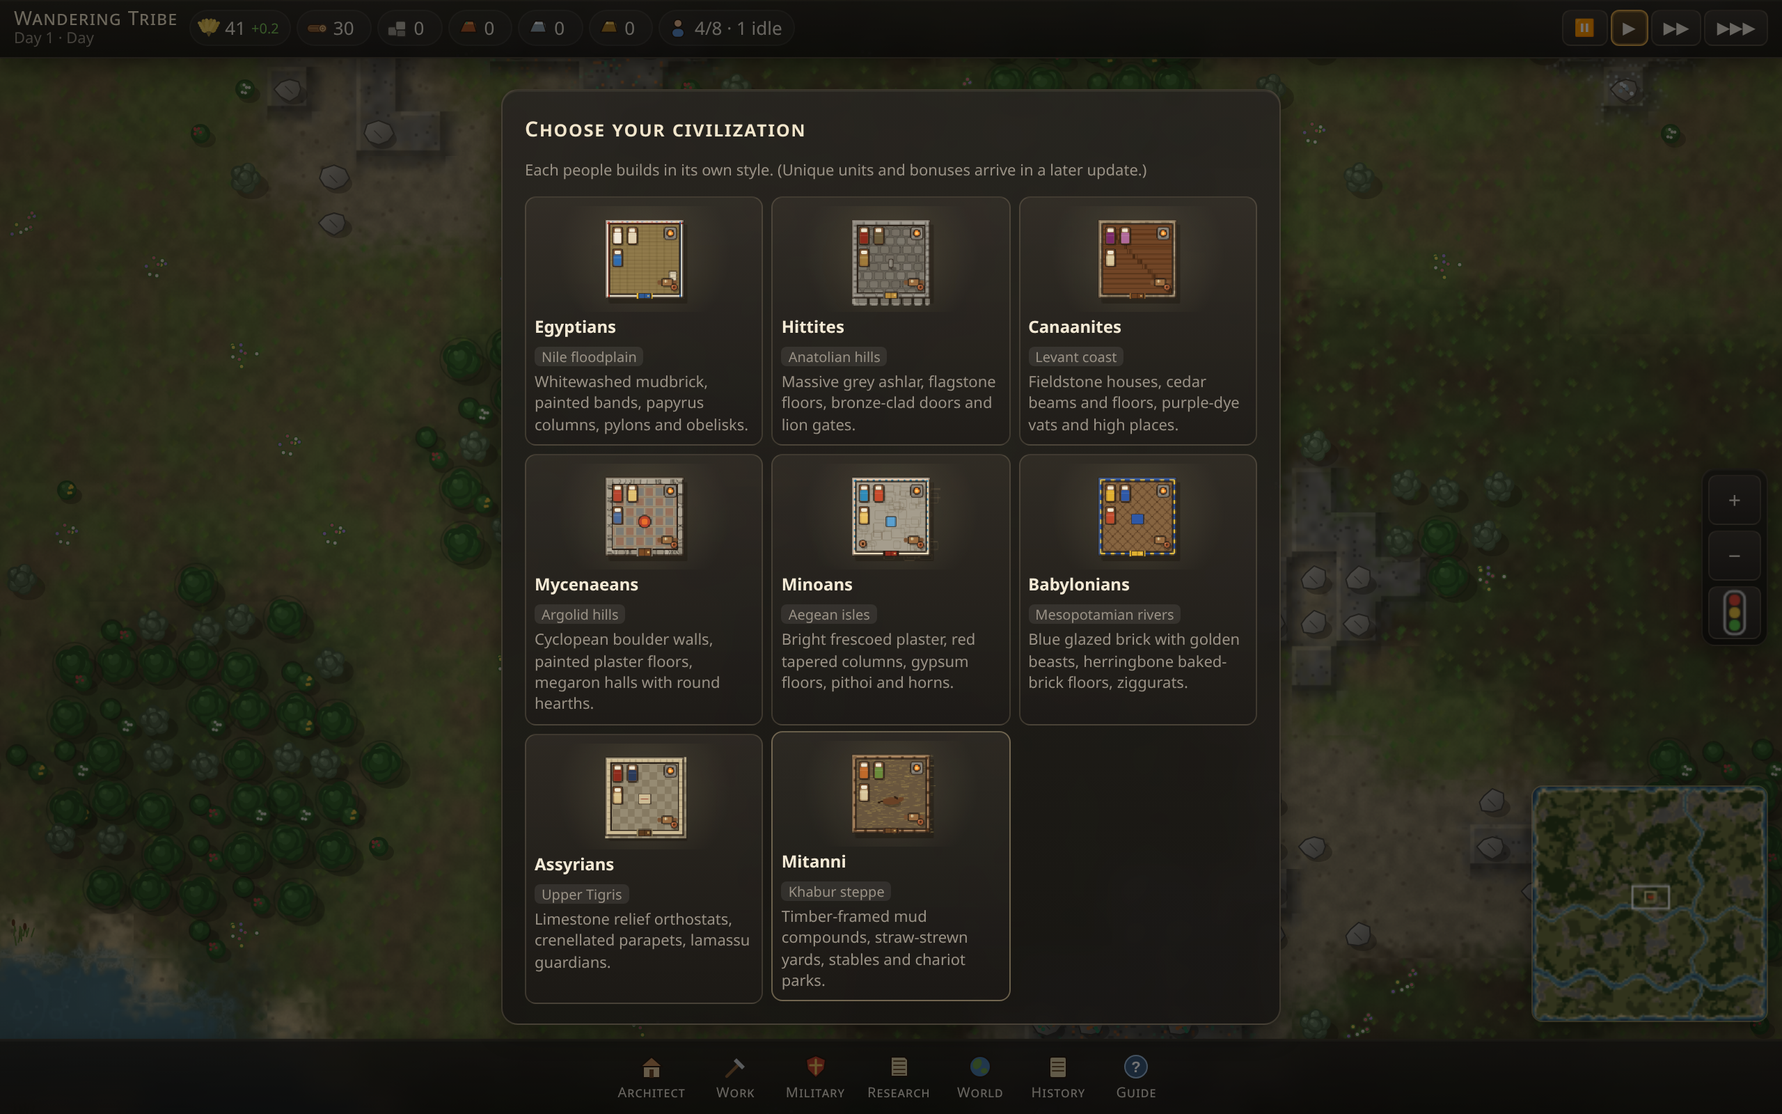
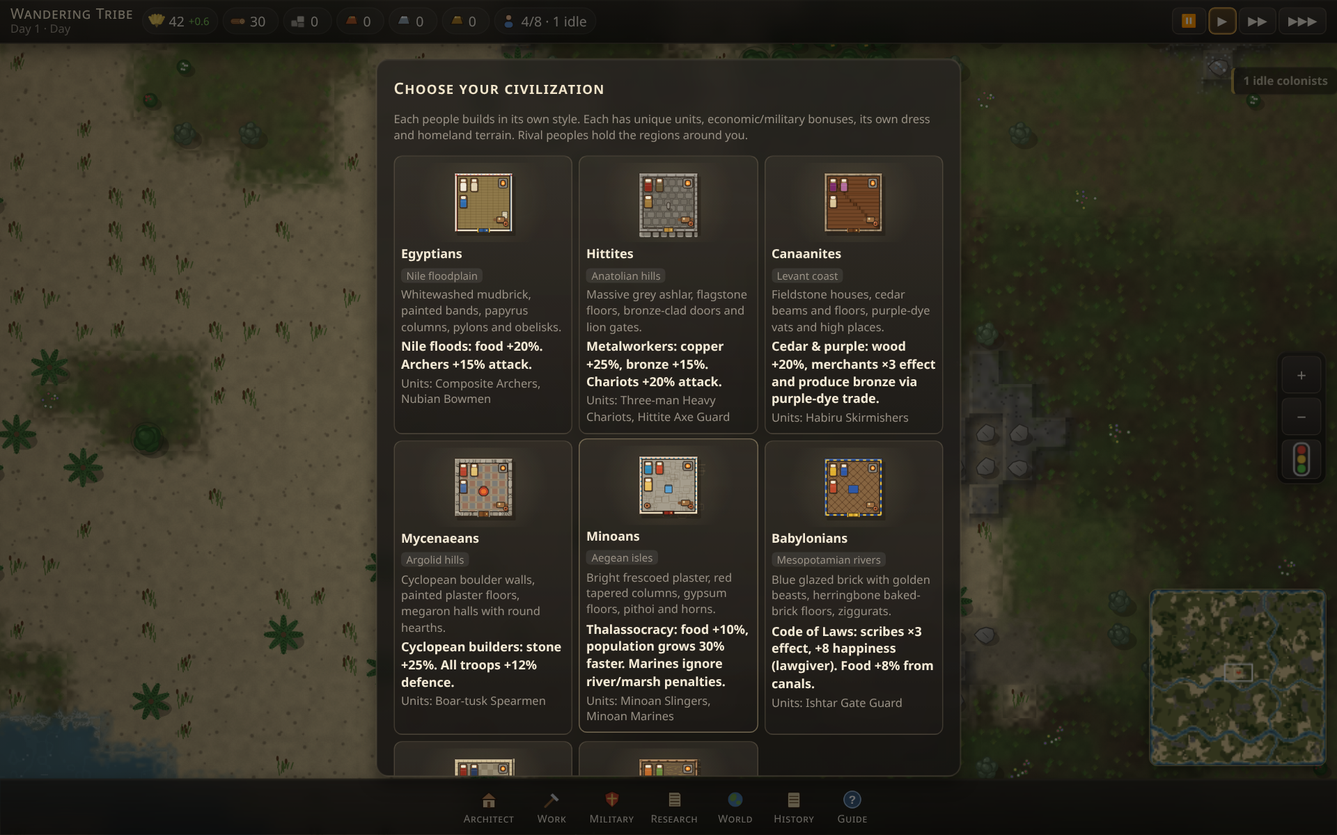
Civ gameplay: unique units, bonuses, dress/hair, biomes, AI-owned regions

diff --git a/index.html b/index.html
@@ -337,16 +337,16 @@ const can=c=>Object.keys(c).every(r=>S.res[r]>=c[r]);
 function pay(c){if(!can(c))return false;for(const r in c)S.res[r]-=c[r];return true}
 const cstr=c=>Object.keys(c).map(r=>c[r]+' '+r).join(', ');
 function tick(){if(S.autoWork&&S.t%3===0)autoAssign();
- const EM=evMods();const mult=(S.tech.writing?1.25:1)*(1+0.05*(S.jobs.scribe||0))*(1+0.03*(S.jobs.merchant||0))*EM.prod;
+ const EM=evMods();const mult=(S.tech.writing?1.25:1)*(1+0.05*(S.jobs.scribe||0)*(cX().scribe||1))*(1+0.03*(S.jobs.merchant||0)*(cX().merch||1))*EM.prod;
  const p={food:0,wood:0,stone:0,copper:0,tin:0,bronze:0};
  for(const j in S.jobs){const J=JOBS[j];if(!J[1]||j==='smith')continue;let v=S.jobs[j]*J[2]*mult;if(J[1]==='food'&&j==='farmer'){if(S.tech.irrigation)v*=1.5;v*=EM.farm}p[J[1]]+=v}
- for(const r in S.bonus)p[r]*=1+S.bonus[r];
+ for(const r in S.bonus)p[r]*=1+S.bonus[r];{const X=cX(),E=X.eco||{};for(const r in E)if(p[r]>0)p[r]*=1+E[r];if(X.purple)p.bronze+=(S.jobs.merchant||0)*X.purple}
  const sm=S.jobs.smith||0;if(sm){let n=Math.min(sm*0.3,S.res.copper/1,S.res.tin/0.5);S.res.copper-=n;S.res.tin-=n*.5;p.bronze+=n*mult*(1+(S.bonus.bronze||0))}
  let up=S.pop*0.4;for(const c of S.companies)up+=c.men*UNIT[c.type].up;p.food-=up*EM.up;
  const C=cap();for(const r of RES)S.res[r]=Math.max(0,Math.min(C,S.res[r]+p[r]));
  S.rate=p;
  if(S.res.food<=0&&p.food<0){if(armyN()>0&&Math.random()<.1){const c=S.companies.find(c=>c.men>0);c.men--;S.companies=S.companies.filter(c=>c.men>0);log('Starving! A soldier of '+c.name+' deserted.')}else if(S.pop>1&&Math.random()<.05){S.pop--;fixJobs();log('Starving! A villager left.')}}
- else if(S.pop<housing()&&S.res.food>10&&EM.grow>0){S.growT+=EM.grow;if(S.growT>=Math.max(3,8-S.tier*2)){S.growT=0;S.pop++;log('A new villager arrived!')}}
+ else if(S.pop<housing()&&S.res.food>10&&EM.grow>0){S.growT+=EM.grow*(cX().grow||1);if(S.growT>=Math.max(3,8-S.tier*2)){S.growT=0;S.pop++;log('A new villager arrived!')}}
  evTick();evHUD();if(S.t%5===0)spawnPops(p);
  S.t++;if(S.t%10===0)save();renderTop();if(cur==='jobs'||cur==='army'){if(S.t%2===0)renderView()}
 }
@@ -381,12 +381,12 @@ function renderView(){const V=$('view');V.innerHTML='';if(cur==='build'){renderA
     btn('✕',()=>{if(confirm('Disband '+c.name+'?'))S.companies=S.companies.filter(x=>x!==c)}))});
   if(!S.companies.length)V.innerHTML+='<div class="small">No companies yet.</div>';
   V.appendChild(Object.assign(document.createElement('b'),{textContent:'Recruit'}));
-  for(const t in UNIT){const U=UNIT[t],lock=unitLock(t);row(V,U.n,lock||('A'+U.atk+' D'+U.def+' HP'+U.hp+' Spd'+U.spd+(U.rng?' ranged':'')+' Arm'+U.arm+(U.ap?' AP'+U.ap:'')+(U.shock?' shock':'')+' · '+cstr(U.cost)+' · upkeep '+U.up),btn('Recruit',()=>recruit(t),lock||!can(U.cost)||armyN()>=armyCap()))}}
+  for(const t in UNIT){const U=UNIT[t],lock=unitLock(t);if(U.civ&&U.civ!==(S.civ||'egypt'))continue;row(V,U.n,lock||('A'+U.atk+' D'+U.def+' HP'+U.hp+' Spd'+U.spd+(U.rng?' ranged':'')+' Arm'+U.arm+(U.ap?' AP'+U.ap:'')+(U.shock?' shock':'')+' · '+cstr(U.cost)+' · upkeep '+U.up),btn('Recruit',()=>recruit(t),lock||!can(U.cost)||armyN()>=armyCap()))}}
  if(cur==='tech'){V.innerHTML='<h3>Tech Tree</h3>';for(const k in TECH){const T=TECH[k];const lock=T.req&&!S.tech[T.req];
   row(V,(S.tech[k]?'✔ ':'')+T.n,T.d+(S.tech[k]?'':' · '+cstr(T.cost))+(lock?' · needs '+TECH[T.req].n:''),btn(S.tech[k]?'Done':'Learn',()=>{if(pay(T.cost)){S.tech[k]=1;log('Learned '+T.n+'!')}},S.tech[k]||lock||!can(T.cost)))}}
  if(cur==='map'){V.innerHTML='<h3>Region Map</h3><div class="small">Tap a flag to scout or attack. Our army: '+armyN()+' men</div>';const c=document.createElement('canvas');c.width=256;c.height=150;V.appendChild(c);drawMap(c);
   c.onclick=e=>{const r=c.getBoundingClientRect();const x=(e.clientX-r.left)*256/r.width,y=(e.clientY-r.top)*150/r.height;let best=-1,bd=400;REG.forEach((g,i)=>{const d=(g.x-x)**2+(g.y-y)**2;if(d<bd){bd=d;best=i}});if(best>=0)regionModal(best)};
-  REG.forEach((g,i)=>row(V,(S.won.includes(i)?'🚩 ':'')+g.n,TERR[g.terr].n+' · '+(S.scouted[i]?enemyMen(i)+' men, '+FORM[g.form].n:'~'+enemyMen(i)+' men?')+' · '+g.d,btn(S.won.includes(i)?'Ours':'Attack',()=>regionModal(i),S.won.includes(i))))}
+  REG.forEach((g,i)=>row(V,(S.won.includes(i)?'🚩 ':'')+g.n+(S.won.includes(i)?'':' · '+CIV[ownersFor(S.civ||'egypt')[i]].n),TERR[g.terr].n+' · '+(S.scouted[i]?enemyMen(i)+' men, '+FORM[g.form].n:'~'+enemyMen(i)+' men?')+' · '+g.d,btn(S.won.includes(i)?'Ours':'Attack',()=>regionModal(i),S.won.includes(i))))}
  if(cur==='help'){V.innerHTML=`<h3>How to Play</h3>
 1. Resources tick every second. Assign idle villagers in <b>Jobs</b>.<br>2. Build Farms/Lumber/Quarries for more jobs, Houses for more people (they need spare food to move in).<br>3. Tap a building in the village to upgrade it (+jobs/capacity).<br>4. Build a <b>Barracks</b>, train Spearmen, plus a couple of Slingers, then attack <b>Reedy Marsh</b> on the Map (6 tribesmen).<br>5. Conquered lands give jobs, tin, bonuses or free tech. Grow Village → Town → City to unlock mines and the smelter.<br>6. Bronze = copper + tin at a Smelter. Learn Chariots for the strongest unit.<br>7. Watch food: villagers and soldiers eat. Starvation causes desertion.<br><b>Events</b>: plague, drought, fire, raiders, immigrants, festivals, caravans and quakes happen at random; wells, a Temple, Irrigation, Sanitation and Granaries soften them. Drag to pan, pinch/wheel or +/- to zoom; tap a villager to see their job.<br><b>Battles</b>: tap a land, Scout it (reveals enemy units, formation), pick a Formation and put each company in Front/Back/Flank/Reserve. Battles run in rounds: missiles, approach, clash, flanking, morale. Armour cuts damage (missiles worst vs armour; axes/maces pierce). Terrain matters: no chariots in forest/marsh, hills favour defenders, walls need a Battering Ram. Survivors gain XP and rank. Take the Bronze Citadel to win!<br>Progress autosaves.`}
 }
@@ -432,10 +432,10 @@ function vnoise(x,y,sc,seed){const X=Math.floor(x/sc),Y=Math.floor(y/sc),fx=x/sc
 const ter=(x,y)=>x<0||y<0||x>=MW||y>=MH?T_WATER:TER[y*MW+x];
 function genWorld(seed){TER=new Uint8Array(MW*MH);const I=(x,y)=>y*MW+x,inb=(x,y)=>x>=0&&y>=0&&x<MW&&y<MH;
  for(let y=0;y<MH;y++)for(let x=0;x<MW;x++){const h=vnoise(x,y,28,seed)*.45+vnoise(x,y,9,seed+11)*.35+vnoise(x,y,4,seed+1)*.2,f=vnoise(x,y,20,seed+2)*.45+vnoise(x,y,7,seed+12)*.35+vnoise(x,y,3,seed+3)*.2;let t=T_GRASS;
-  if(h>.64)t=T_HILL;else if(f>.6)t=T_FOREST;if(t===T_HILL&&(h>.74||hsh(x,y,seed+4)<.12))t=T_ROCK;if((t===T_HILL||t===T_ROCK)&&vnoise(x,y,5,seed+5)>.76)t=T_CU;if((t===T_HILL||t===T_ROCK)&&vnoise(x,y,5,seed+6)>.83)t=T_SN;TER[I(x,y)]=t}
+  const B=cX().biome;if(h>B.h)t=T_HILL;else if(f>B.f)t=T_FOREST;else if(B.arid&&f<B.arid&&vnoise(x,y,16,seed+9)<.55)t=T_SAND;if(t===T_HILL&&(h>.74||hsh(x,y,seed+4)<.12))t=T_ROCK;if((t===T_HILL||t===T_ROCK)&&vnoise(x,y,5,seed+5)>.76)t=T_CU;if((t===T_HILL||t===T_ROCK)&&vnoise(x,y,5,seed+6)>.83)t=T_SN;TER[I(x,y)]=t}
  const river=(horiz,base,lo,hi,w,sd)=>{let r=base;const N=horiz?MW:MH;for(let a=0;a<N;a++){r+=Math.round(Math.sin(a/9+sd)*.8+(hsh(a,sd,2)-.5)*1.3);r=Math.max(lo,Math.min(hi,r));const ww=w+(vnoise(a,0,14,sd)>.6?1:0);for(let k=-ww;k<=ww;k++){const x=horiz?a:r+k,y=horiz?r+k:a;if(inb(x,y))TER[I(x,y)]=T_WATER}for(const k of[-ww-1,ww+1]){const x=horiz?a:r+k,y=horiz?r+k:a;if(inb(x,y)&&TER[I(x,y)]!==T_WATER&&hsh(a,k,sd)<.8)TER[I(x,y)]=T_SAND}}};
  river(true,START.y+14,START.y+10,START.y+26,1,seed);river(false,START.x+46,START.x+38,START.x+70,1,seed+3);river(true,START.y+80,START.y+60,MH-10,2,seed+5);
- for(let n=0;n<10;n++){const cx=(hsh(n,seed,31)*(MW-20)|0)+10,cy=(hsh(n,seed,32)*(MH-20)|0)+10,r=3+hsh(n,seed,33)*7;if(Math.abs(cx-START.x)<22&&Math.abs(cy-START.y)<18)continue;for(let y=cy-r-2;y<=cy+r+2;y++)for(let x=cx-r-2;x<=cx+r+2;x++){if(!inb(x,y))continue;const d=Math.hypot(x-cx,(y-cy)*1.2)+(vnoise(x,y,3,n)-.5)*3;if(d<r)TER[I(x,y)]=T_WATER;else if(d<r+1.4&&TER[I(x,y)]!==T_WATER)TER[I(x,y)]=T_SAND}}
+ for(let n=0;n<(cX().biome.wet?24:10);n++){const cx=(hsh(n,seed,31)*(MW-20)|0)+10,cy=(hsh(n,seed,32)*(MH-20)|0)+10,r=3+hsh(n,seed,33)*7;if(Math.abs(cx-START.x)<22&&Math.abs(cy-START.y)<18)continue;for(let y=cy-r-2;y<=cy+r+2;y++)for(let x=cx-r-2;x<=cx+r+2;x++){if(!inb(x,y))continue;const d=Math.hypot(x-cx,(y-cy)*1.2)+(vnoise(x,y,3,n)-.5)*3;if(d<r)TER[I(x,y)]=T_WATER;else if(d<r+1.4&&TER[I(x,y)]!==T_WATER)TER[I(x,y)]=T_SAND}}
  for(let y=0;y<MH;y++)for(let x=0;x<MW;x++){const e=Math.min(x,y,MW-1-x,MH-1-y)+(vnoise(x,y,6,seed+40)-.5)*6;if(e<3)TER[I(x,y)]=T_WATER;else if(e<4.5&&TER[I(x,y)]!==T_WATER)TER[I(x,y)]=T_SAND}
  for(let y=START.y-7;y<=START.y+7;y++)for(let x=START.x-8;x<=START.x+8;x++){const t=TER[I(x,y)];if(t!==T_WATER&&t!==T_SAND)TER[I(x,y)]=T_GRASS}
  const blob=(cx,cy,r,t)=>{for(let y=cy-r;y<=cy+r;y++)for(let x=cx-r;x<=cx+r;x++)if(inb(x,y)&&(x-cx)**2+(y-cy)**2<=r*r+.5&&TER[I(x,y)]!==T_WATER&&TER[I(x,y)]!==T_SAND)TER[I(x,y)]=(t===T_FOREST||hsh(x,y,t)<.75)?t:T_HILL};
@@ -495,7 +495,7 @@ function syncRoster(){const pop=S.pop,sig=JSON.stringify([S.jobs,pop,bgSig,armyN
  const idle=Math.round(Math.max(0,pop-employed())*sc);for(let k=0;k<idle;k++)want.push('idle#'+k);for(let k=0;k<Math.min(12,armyN());k++)want.push('soldier#'+k);for(let k=0;k<Math.min(6,Math.floor(pop/6));k++)want.push('kid#'+k);
  const keep={};agents.forEach(a=>keep[a.key]=a);const h=hubT(),homes=blds('house').concat(blds('tent'));
  agents=want.map((key,n)=>{const a=keep[key];if(a&&a.sig===bgSig)return a;const role=key.split('#')[0],idx=+key.split('#')[1];const home=homes.length?doorOf(pick(homes).b):h;const wb=JOBB[role]?blds(JOBB[role]):[];
-  const o=Object.assign({},OUTFIT[role]||{t:TUN[n%TUN.length],t2:lighten(TUN[n%TUN.length],-.35),hat:'none'});o.hair=pick(['#3a2414','#24140c','#6a4226','#1a1010','#8a5a32']);if(role==='kid'){o.kid=1;o.t=TUN[(n+3)%TUN.length];o.t2=lighten(o.t,-.3)}
+  const o=Object.assign({},OUTFIT[role]||{t:TUN[n%TUN.length],t2:lighten(TUN[n%TUN.length],-.35),hat:'none'});o.hair=pick(['#3a2414','#24140c','#6a4226','#1a1010','#8a5a32']);if(role==='kid'){o.kid=1;o.t=TUN[(n+3)%TUN.length];o.t2=lighten(o.t,-.3)}civDress(o,role,n);
   return{key,role,idx,sig:bgSig,x:home.x,y:home.y,home,work:wb.length?pick(wb):null,route:[],state:'start',t:Math.random()*2,o,dir:0,ft:0,sick:false}});
  critters=[];const fs=blds('farm'),fc=Math.min(12,fs.length*3),gc=(S.extraJobs||{}).herder?Math.min(6,2+S.tier*2):0;
  for(let k=0;k<fc+gc;k++){const f=fs.length?fs[k%fs.length]:{gx:S.center.x,gy:S.center.y,s:1};const d=doorOf(f.b||{t:'tent',x:f.gx,y:f.gy});critters.push({k:k>=fc?'goat':'chicken',x:d.x+Math.random()-.5,y:d.y+Math.random()*.5,tx:0,ty:0,t:0,dir:1,hx:d.x,hy:d.y})}
@@ -693,8 +693,8 @@ function bspr(t,l,v){l=Math.min(l||1,5);const key='B'+t+l+(v||'')+(S&&S.tier>=3?
  if(v==='burn'){g.fillStyle='rgba(30,20,10,.35)';g.fillRect(0,0,W,W)}
  return SPR[key]={c,m}}
 // ---------- pawns ----------
-function pawnSpr(o,dir,sc){const k='P'+[o.t,o.t2,o.hat,o.hair,o.kid,o.sick,o.shield,o.apron,o.robe,o.hc,dir,sc].join();if(PSPR[k])return PSPR[k];const[c,g0]=mk(24*sc,32*sc);const g=g0;g.imageSmoothingEnabled=true;g.scale(sc,sc);g.lineJoin='round';
- if(o.kid){g.translate(12,30);g.scale(.76,.76);g.translate(-12,-30)}const sk=o.sick?'#a8b880':'#e8b890',hair=o.hair||'#3a2414',side=dir===0||dir===2,fl=dir===2?-1:1;
+function pawnSpr(o,dir,sc){const k='P'+[o.sk,o.hs,o.t,o.t2,o.hat,o.hair,o.kid,o.sick,o.shield,o.apron,o.robe,o.hc,dir,sc].join();if(PSPR[k])return PSPR[k];const[c,g0]=mk(24*sc,32*sc);const g=g0;g.imageSmoothingEnabled=true;g.scale(sc,sc);g.lineJoin='round';
+ if(o.kid){g.translate(12,30);g.scale(.76,.76);g.translate(-12,-30)}const sk=o.sick?'#a8b880':(o.sk||'#e8b890'),hair=o.hair||'#3a2414',side=dir===0||dir===2,fl=dir===2?-1:1;
  // body
  const bh=o.robe?16:13,by=15;rr(g,5,by,14,bh,6,o.t,OUTL,1.1);rr(g,6,by+bh*.55,12,bh*.42,5,o.t2);if(o.apron&&dir===1)rr(g,9,by+3,6,bh-4,2,'#d8c6a0');
  if(o.shield&&side){circ(g,12+fl*-5,by+7,4.4,o.hc||'#8a6038',OUTL,.9);circ(g,12+fl*-5,by+7,1.4,'#d8a040')}
@@ -704,7 +704,14 @@ function pawnSpr(o,dir,sc){const k='P'+[o.t,o.t2,o.hat,o.hair,o.kid,o.sick,o.shi
  g.save();g.beginPath();g.arc(hx,hy,6.6,0,6.29);g.clip();g.fillStyle=hair;
  if(o.hat!=='bald'){if(dir===3)g.fillRect(0,0,24,20);else if(dir===1){g.beginPath();g.ellipse(hx,hy-4.4,7.4,4.6,0,0,6.29);g.fill()}else{g.beginPath();g.ellipse(hx-fl*3.4,hy-2.6,6,6,0,0,6.29);g.fill()}}
  g.restore();if(o.hat!=='bald')circ(g,hx,hy,6.6,null,OUTL,1.1);
- const hat=o.hat||'none';
+ const hs=o.hs;if(hs==='long'||hs==='curls'){if(dir===3)rr(g,hx-6.5,hy,13,8,4,hair);else{ln(g,hx-6,hy-1,hx-6.5,hy+7,hair,2.6);if(dir!==0)ln(g,hx+6,hy-1,hx+6.5,hy+7,hair,2.6);}if(hs==='curls')for(let q=0;q<5;q++)circ(g,hx-6+q*3,hy-6+Math.abs(q-2),1.8,hair)}
+ if(hs==='braid'&&dir!==1)ln(g,hx-(side?fl*5:0),hy+2,hx-(side?fl*6:0),hy+11,hair,2.2);
+ if(hs==='beard'&&dir!==3){g.beginPath();g.moveTo(hx-4.5+(side?fl*1.5:0),hy+3);g.lineTo(hx+4.5+(side?fl*1.5:0),hy+3);g.lineTo(hx+(side?fl*2:0),hy+9);g.closePath();g.fillStyle=hair;g.fill();for(let q=0;q<3;q++)ln(g,hx-3+q*3,hy+4,hx-2+q*2,hy+8,'rgba(0,0,0,.25)',.5)}
+ const hat=o.hat==='helm'?'helmet':(o.hat||'none');
+ if(hat==='nemes'){g.beginPath();g.arc(hx,hy-.4,7.2,3.1,6.33);g.lineTo(hx+7.6,hy+7);g.lineTo(hx+4.6,hy+7);g.lineTo(hx+4.6,hy);g.lineTo(hx-4.6,hy);g.lineTo(hx-4.6,hy+7);g.lineTo(hx-7.6,hy+7);g.closePath();g.fillStyle='#f0e4b0';g.fill();g.strokeStyle=OUTL;g.lineWidth=.8;g.stroke();for(let q=-2;q<=2;q++)ln(g,hx+q*2.6,hy-6.5,hx+q*3.4,hy,o.hc||'#2e6db0',.9)}
+ else if(hat==='tall'){g.beginPath();g.moveTo(hx-6.5,hy-2.5);g.lineTo(hx-1,hy-15);g.lineTo(hx+1.5,hy-15);g.lineTo(hx+6.5,hy-2.5);g.closePath();g.fillStyle=o.hc||'#d8c08a';g.fill();g.strokeStyle=OUTL;g.lineWidth=.8;g.stroke();ln(g,hx-5.6,hy-5,hx+5.6,hy-5,'#8e2a1c',1)}
+ else if(hat==='boar'){g.beginPath();g.moveTo(hx-7,hy-1);g.quadraticCurveTo(hx,hy-17,hx+7,hy-1);g.closePath();g.fillStyle='#f0e8d0';g.fill();g.strokeStyle=OUTL;g.lineWidth=.8;g.stroke();for(let q=0;q<3;q++)ln(g,hx-6+q*1.2,hy-3-q*3,hx+6-q*1.2,hy-3-q*3,'#8a7a5a',.8);ln(g,hx,hy-12,hx,hy-15,'#8a5a32',1.4)}
+ else if(hat==='fez'){rr(g,hx-5.5,hy-11,11,7,1.5,o.hc||'#e0b030',OUTL,.8);ln(g,hx-5.5,hy-6,hx+5.5,hy-6,'rgba(0,0,0,.25)',.8)}
  if(hat==='straw'){ell(g,hx,hy-4,9.5,3.6,'#e2c464');ell(g,hx,hy-5.4,5,2.6,'#cfae4c');ln(g,hx-5,hy-4.2,hx+5,hy-4.2,'#a8822c',.7)}
  else if(hat==='cap'||hat==='helmet'){g.beginPath();g.arc(hx,hy-.6,6.9,3.3,6.12);g.closePath();g.fillStyle=hat==='helmet'?'#c8a040':(o.hc||'#8a6038');g.fill();g.strokeStyle=OUTL;g.lineWidth=.9;g.stroke();if(hat==='helmet')ln(g,hx,hy-7.5,hx,hy-10,'#c04a2c',1.6)}
  else if(hat==='hood'){g.beginPath();g.arc(hx,hy,7.6,3.0,6.4);g.lineWidth=2.6;g.strokeStyle=o.t2;g.stroke()}
@@ -1043,9 +1050,53 @@ function civBuilding(g,t,l,W,m){const A=civA(),id=(S&&S.civ)||'egypt',acc=A.acc;
  return false}
 const CLX={pithos:1,horns:1,stele:1,obelisk:1,palmpot:1,purple:1,horse:1};
 function civProp(g,k,vr){const x=24,y=24;if(k==='pithos'){pithos(g,x-4,y,4);pithos(g,x+5,y+2,3.4)}else if(k==='horns')horns(g,x,y);else if(k==='stele'){ell(g,x+3,y+3,4,2,SH);rr(g,x-3,y-6,6,10,2,'#9a948a',OUTL,.7);for(let i=0;i<3;i++)ln(g,x-2,y-4+i*2.4,x+2,y-4+i*2.4,'#6a645a',.5)}else if(k==='obelisk')obelisk(g,x,y);else if(k==='palmpot'){circ(g,x,y+2,3.6,'#b8643a',OUTL,.6);g.drawImage(propSpr('palm',vr).c,x-10,y-12,20,20)}else if(k==='purple'){for(let i=0;i<3;i++){circ(g,x-6+i*6,y,2.8,'#6a2a6a',OUTL,.6);circ(g,x-6+i*6,y,1.4,'#b04aa8')}}else if(k==='horse')horse(g,x,y,vr%2?1:-1,['#6a4226','#8a5a34','#3a2a1a'][vr%3])}
-function pickCiv(after){const M=$('modal'),B=$('mbody');B.innerHTML='<h3>Choose your civilization</h3><p class="muted">Each people builds in its own style. (Unique units and bonuses arrive in a later update.)</p>';const gr=document.createElement('div');gr.className='grid civg';
- for(const id in CIV){const C=CIV[id],el=document.createElement('div');el.className='card';const[c,g]=mk(112,112);g.imageSmoothingEnabled=true;const old=S.civ;S.civ=id;const sp=bspr('house',2);g.drawImage(sp.c,4,4,104,104);S.civ=old;c.className='th';el.appendChild(c);el.insertAdjacentHTML('beforeend','<div class="cm"><b>'+C.n+'</b><span class="badge">'+C.land+'</span><div class="sub">'+C.blurb+'</div></div>');
-  el.onclick=()=>{S.civ=id;for(const k in SPR)if(k[0]==='B')delete SPR[k];chunkSig++;save();M.style.display='none';log('You lead the '+C.n+'.');renderView();after&&after()};gr.appendChild(el)}B.appendChild(gr);M.style.display='flex'}
+function pickCiv(after){const M=$('modal'),B=$('mbody');B.innerHTML='<h3>Choose your civilization</h3><p class="muted">Each people builds in its own style. Each has unique units, economic/military bonuses, its own dress and homeland terrain. Rival peoples hold the regions around you.</p>';const gr=document.createElement('div');gr.className='grid civg';
+ for(const id in CIV){const C=CIV[id],el=document.createElement('div');el.className='card';const[c,g]=mk(112,112);g.imageSmoothingEnabled=true;const old=S.civ;S.civ=id;const sp=bspr('house',2);g.drawImage(sp.c,4,4,104,104);S.civ=old;c.className='th';el.appendChild(c);el.insertAdjacentHTML('beforeend','<div class="cm"><b>'+C.n+'</b><span class="badge">'+C.land+'</span><div class="sub">'+C.blurb+'</div><div class="sub"><b>'+CIVX[id].txt+'</b> Units: '+CIVX[id].units.map(u=>UNIT[u].n.replace(/ \(.*\)/,'')).join(', ')+'</div></div>');
+  el.onclick=()=>{S.civ=id;genWorld(S.seed);worldChanged();CH={};rosterSig='';for(const k in SPR)if(k[0]==='B')delete SPR[k];chunkSig++;save();M.style.display='none';log('You lead the '+C.n+'.');renderView();after&&after()};gr.appendChild(el)}B.appendChild(gr);M.style.display='flex'}
+
+// ================= CIV GAMEPLAY: units, bonuses, dress, biomes, AI regions =================
+Object.assign(UNIT,{
+ medjay:{n:'Composite Archers (Egypt)',civ:'egypt',atk:5.5,def:1.5,hp:9,spd:1.1,rng:1,arm:0,ap:1,up:.15,cost:{food:18,wood:24},c:'#e0c060'},
+ nubian:{n:'Nubian Bowmen (Egypt)',civ:'egypt',atk:4,def:1,hp:8,spd:1.3,rng:1,arm:0,ap:0,up:.1,cost:{food:12,wood:14},c:'#6a3a1e'},
+ hchar3:{n:'Three-man Heavy Chariots (Hittite)',civ:'hittite',atk:10,def:5.5,hp:30,spd:2.2,rng:0,arm:1,ap:1,chariot:1,shock:1,up:.45,cost:{food:60,wood:50,copper:20},tier:2,c:'#8e2a1c'},
+ meshwesh:{n:'Hittite Axe Guard (Hittite)',civ:'hittite',atk:6,def:4,hp:12,spd:1,rng:0,arm:1,ap:2,up:.2,cost:{food:22,copper:12},c:'#6a5a3a'},
+ maryannu:{n:'Maryannu Chariot Archers (Mitanni)',civ:'mitanni',atk:6,def:2.5,hp:20,spd:3.4,rng:1,arm:1,ap:1,chariot:1,up:.35,cost:{food:45,wood:40,copper:8},c:'#c06a2a'},
+ boar:{n:'Boar-tusk Spearmen (Mycenae)',civ:'myc',atk:4.5,def:7,hp:14,spd:.8,rng:0,arm:1,ap:0,up:.2,cost:{food:22,wood:10,copper:6},c:'#d8c8a0'},
+ msling:{n:'Minoan Slingers (Minoa)',civ:'minoan',atk:3.4,def:1.2,hp:8,spd:1.3,rng:1,arm:0,ap:1,up:.08,cost:{food:10,stone:8},c:'#2e8ab8'},
+ marine:{n:'Minoan Marines (Minoa)',civ:'minoan',atk:4.5,def:4,hp:11,spd:1.2,rng:0,arm:0,ap:1,amph:1,up:.15,cost:{food:18,wood:14},c:'#c84a2c'},
+ sapper:{n:'Assyrian Siege Engineers (Assyria)',civ:'assyria',atk:1.5,def:5,hp:26,spd:.8,rng:0,arm:2,ap:0,siege:1,up:.15,cost:{wood:40,stone:15,copper:5},c:'#8a7a54'},
+ lancer:{n:'Assyrian Lancers (Assyria)',civ:'assyria',atk:5,def:3,hp:12,spd:1,rng:0,arm:1,ap:1,up:.18,cost:{food:20,wood:8,copper:8},c:'#8e2a1c'},
+ gateguard:{n:'Ishtar Gate Guard (Babylon)',civ:'babylon',atk:4.5,def:6,hp:13,spd:.9,rng:0,arm:1,ap:0,morale:15,up:.2,cost:{food:24,stone:10,copper:6},c:'#2e58a6'},
+ habiru:{n:'Habiru Skirmishers (Canaan)',civ:'canaan',atk:3.4,def:2,hp:9,spd:1.4,rng:1,arm:0,ap:0,up:.08,cost:{food:12,wood:8},c:'#7a2a6a'}});
+const CIVX={
+ egypt:{units:['medjay','nubian'],eco:{food:.2},mil:{rng:.15},sw:{archer:'medjay',slinger:'nubian',compbow:'medjay'},txt:'Nile floods: food +20%. Archers +15% attack.',
+  dress:{sk:['#c8885a','#a86a40','#8a5030'],hair:['#140c08','#1a1010'],t:['#f4eedc','#ece2cc'],t2:'#d8ccb0',hat:'nemes',hc:'#2e6db0',hs:'short'},biome:{arid:.46,f:.7,h:.7}},
+ hittite:{units:['hchar3','meshwesh'],eco:{copper:.25,bronze:.15},mil:{chariot:.2},sw:{hchariot:'hchar3',axeman:'meshwesh',lchariot:'hchar3'},txt:'Metalworkers: copper +25%, bronze +15%. Chariots +20% attack.',
+  dress:{sk:['#e0a878','#d09468'],hair:['#24140c','#3a2414'],t:['#8e2a1c','#6a5a3a','#a07a3a'],t2:'#4a3a2a',hat:'tall',hc:'#d8c08a',hs:'braid'},biome:{h:.58,f:.62}},
+ canaan:{units:['habiru'],eco:{wood:.2},merch:3,purple:.06,txt:'Cedar & purple: wood +20%, merchants ×3 effect and produce bronze via purple-dye trade.',sw:{slinger:'habiru',archer:'habiru'},
+  dress:{sk:['#d89a6a','#c08458'],hair:['#1a1010','#3a2414'],t:['#7a2a6a','#b06a9a','#d8c69a'],t2:'#5a2a5a',hat:'turban',hc:'#e8dcc0',hs:'beard'},biome:{f:.52,h:.66}},
+ myc:{units:['boar'],eco:{stone:.25},mil:{def:.12},sw:{spear:'boar',hoplite:'boar'},txt:'Cyclopean builders: stone +25%. All troops +12% defence.',
+  dress:{sk:['#e8b890','#d8a070'],hair:['#3a2414','#6a4226','#24140c'],t:['#b8442e','#e0c070','#4a6a9a'],t2:'#6a3a1e',hat:'boar',hc:'#f0e8d0',hs:'long'},biome:{h:.57,f:.66}},
+ minoan:{units:['msling','marine'],eco:{food:.1},grow:1.3,sw:{slinger:'msling',spear:'marine'},txt:'Thalassocracy: food +10%, population grows 30% faster. Marines ignore river/marsh penalties.',
+  dress:{sk:['#d8946a','#c88058'],hair:['#140c08','#24140c'],t:['#2e8ab8','#c84a2c','#e8c060'],t2:'#f0e8d8',hat:'none',hs:'curls'},biome:{f:.64,h:.68,wet:1}},
+ babylon:{units:['gateguard'],scribe:3,eco:{food:.08},happy:8,sw:{hoplite:'gateguard',guard:'gateguard'},txt:'Code of Laws: scribes ×3 effect, +8 happiness (lawgiver). Food +8% from canals.',
+  dress:{sk:['#d09060','#b87a50'],hair:['#140c08','#1a1010'],t:['#2e58a6','#e0b030','#c04a2c'],t2:'#1a3670',hat:'fez',hc:'#e0b030',hs:'beard'},biome:{arid:.42,f:.74,h:.72}},
+ assyria:{units:['sapper','lancer'],eco:{stone:.15},mil:{atk:.12,siege:1.6},sw:{ram:'sapper',spear:'lancer',axeman:'lancer'},txt:'War machine: all troops +12% attack, siege ×1.6. Stone +15%.',
+  dress:{sk:['#d09468','#c08458'],hair:['#140c08','#24140c'],t:['#8e2a1c','#2a3a5a','#d8c08a'],t2:'#5a1a10',hat:'fez',hc:'#d8c08a',hs:'beard'},biome:{arid:.4,h:.62,f:.7}},
+ mitanni:{units:['maryannu'],eco:{food:.1},mil:{chariot:.25,spd:.25},sw:{lchariot:'maryannu',hchariot:'maryannu',archer:'maryannu'},txt:'Horse masters (Kikkuli): chariots +25% attack & speed. Herds: food +10%.',
+  dress:{sk:['#e0a878','#c89060'],hair:['#3a2414','#6a4226'],t:['#c06a2a','#6a8a3a','#d8c69a'],t2:'#6a3a1e',hat:'band',hc:'#c06a2a',hs:'long'},biome:{f:.74,h:.7}}};
+const cX=()=>CIVX[(S&&S.civ)||'egypt']||CIVX.egypt;
+const _unitLock=unitLock;unitLock=function(t){const U=UNIT[t];if(U.civ&&U.civ!==(S.civ||'egypt'))return'Only the '+CIV[U.civ].n;return _unitLock(t)};
+const _mkGroup=mkGroup;mkGroup=function(c,side){const g=_mkGroup(c,side);let civ=null;if(typeof c.id==='number')civ=cX();else if(c.civ)civ=CIVX[c.civ];
+ if(civ){const M=civ.mil||{},U=Object.assign({},g.U);let a=1+(M.atk||0);if(U.rng)a+=M.rng||0;if(U.chariot){a+=M.chariot||0;U.spd*=1+(M.spd||0)}if(U.siege)a*=M.siege||1;U.atk*=a;U.def*=1+(M.def||0);g.U=U}return g};
+function civDress(o,role,n){const D=cX().dress,h=(n*7+role.length*3)%97;o.sk=D.sk[h%D.sk.length];o.hair=D.hair[h%D.hair.length];o.hs=D.hs;
+ if(!OUTFIT[role]||role==='gatherer'||role==='scribe'||role==='merchant'||role==='kid'){o.t=D.t[h%D.t.length];o.t2=D.t2}
+ if(!o.hat||o.hat==='none'||role==='scribe'||role==='merchant'||role==='soldier'){if(role!=='kid')o.hat=role==='soldier'&&D.hat!=='boar'&&D.hat!=='tall'?'helm':D.hat;o.hc=D.hc}
+ if(role==='soldier'){o.t=CIV[S.civ||'egypt'].acc;o.t2=lighten(o.t,-.35)}o.civ=S.civ;return o}
+function ownersFor(me){const L=Object.keys(CIV).filter(k=>k!==me);return REG.map((r,i)=>L[i%L.length])}
+const _enemyOf=enemyOf;enemyOf=function(i){const ow=ownersFor(S.civ||'egypt')[i],X=CIVX[ow];return _enemyOf(i).map(e=>{const t=X.sw&&X.sw[e.type];if(t){e.type=t;e.slot=defSlot(t)}e.civ=ow;e.name=CIV[ow].n.replace(/s$/,'')+' '+UNIT[e.type].n.replace(/ \(.*\)/,'');return e})};
+const _drawMap=drawMap;drawMap=function(c){_drawMap(c);const x=c.getContext('2d'),ow=ownersFor(S.civ||'egypt');REG.forEach((g,i)=>{if(S.won.includes(i))return;const C=CIV[ow[i]];x.globalAlpha=.28;x.fillStyle=C.acc;x.beginPath();x.arc(g.x,g.y,17,0,6.29);x.fill();x.globalAlpha=1;x.strokeStyle=C.acc;x.setLineDash([2,2]);x.stroke();x.setLineDash([]);x.fillStyle='#fff3d4';x.font='bold 5px sans-serif';x.fillText(C.n,g.x-12,g.y-12)});
+ x.fillStyle=CIV[S.civ||'egypt'].acc;x.font='bold 6px sans-serif';x.fillText(CIV[S.civ||'egypt'].n+' (you)',HOME.x-18,HOME.y+14)};
 
 // ================= CITY EVENTS =================
 function evOn(id){return S&&S.ev&&S.ev.act.find(e=>e.id===id)}
